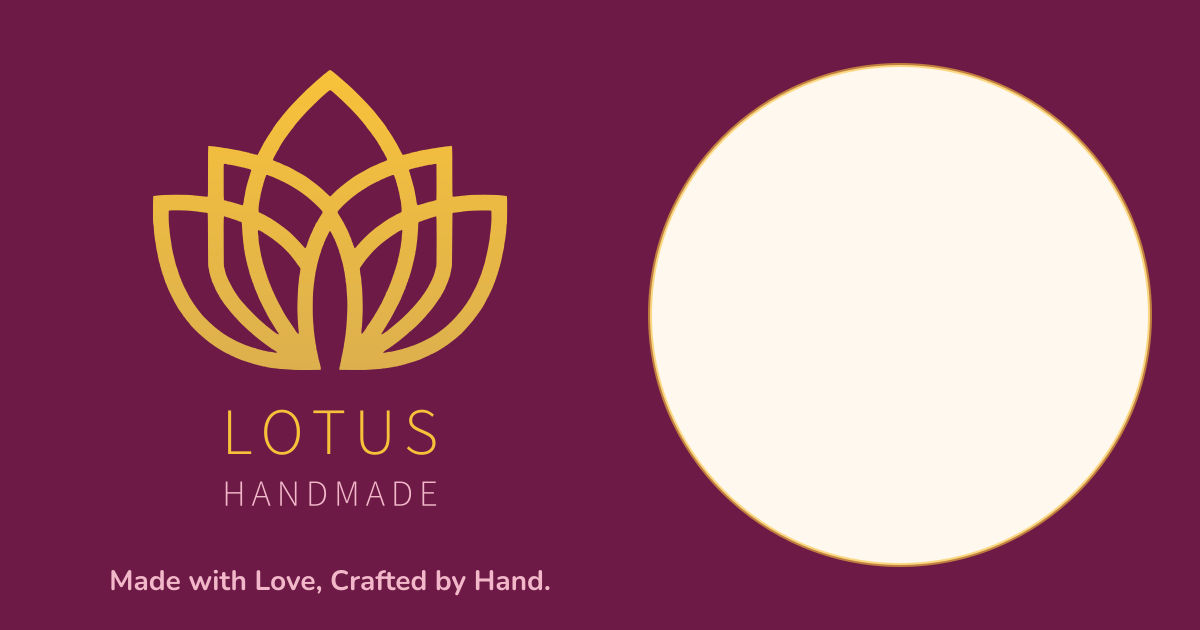
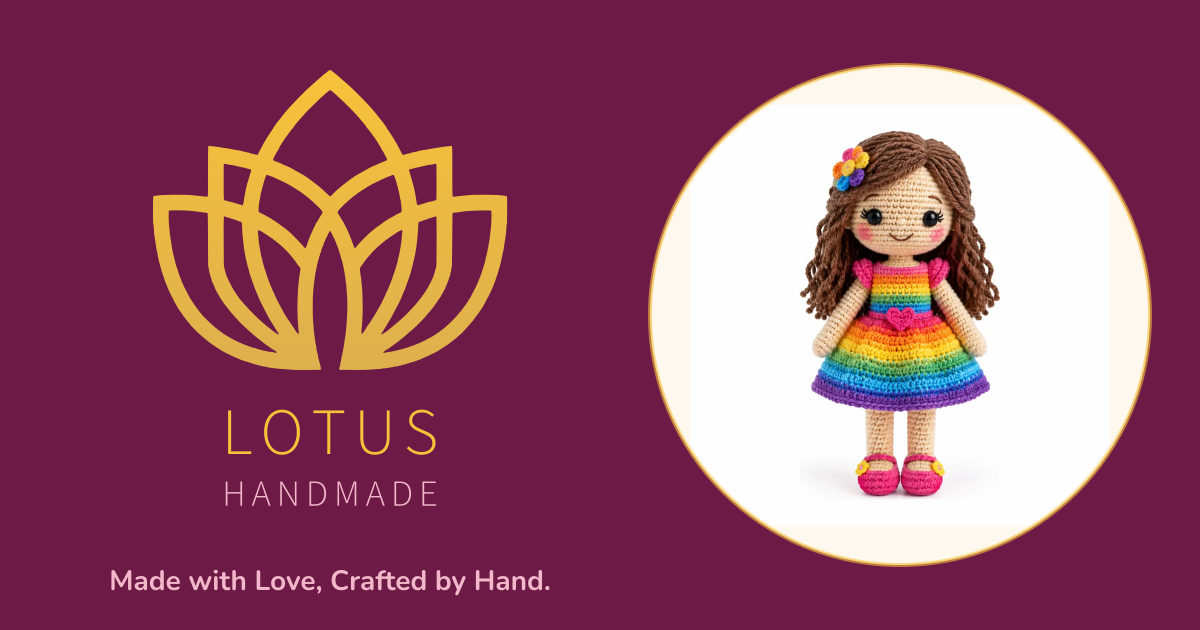
Add crochet product photos (doll, puppy, kitty, birds, baby sweater, hats, rainbow set)
Claude-Session: https://claude.ai/code/session_01KpLFza3rcbxPm6JYM8s9BS

Changed region(s): [[0.6475, 0.2111, 0.8325, 0.8143]]

diff --git a/assets/js/products.js b/assets/js/products.js
@@ -26,9 +26,9 @@
    ===================================================================== */
 
 window.CATEGORIES = [
-  { id: "wool-dolls",   name: "Wool Dolls & Teddy Bears", page: "wool-dolls-teddy-bears.html", image: "assets/images/products/wool-doll.svg",     blurb: "Huggable dolls and teddies with sweet stitched faces." },
-  { id: "crochet-toys", name: "Crochet Toys",             page: "crochet-toys.html",           image: "assets/images/products/cat.svg",           blurb: "Soft crochet birds, cats and animal friends." },
-  { id: "baby",         name: "Baby Collection",          page: "baby-collection.html",        image: "assets/images/products/baby-booties.svg",  blurb: "Booties, hats, rompers and blankets in baby pink & blue." },
+  { id: "wool-dolls",   name: "Wool Dolls & Teddy Bears", page: "wool-dolls-teddy-bears.html", image: "assets/images/products/rainbow-doll.webp",     blurb: "Huggable dolls and teddies with sweet stitched faces." },
+  { id: "crochet-toys", name: "Crochet Toys",             page: "crochet-toys.html",           image: "assets/images/products/pastel-puppy.webp",           blurb: "Soft crochet puppies, kitties, birds and animal friends." },
+  { id: "baby",         name: "Baby Collection",          page: "baby-collection.html",        image: "assets/images/products/rainbow-baby-set.webp",  blurb: "Sweaters, sets, hats, booties and blankets in baby pastels." },
   { id: "home-decor",   name: "Home & Table Décor",       page: "home-table-decor.html",       image: "assets/images/products/table-doily.svg",   blurb: "Doilies, napkin rings and coasters for a beautiful table." },
   { id: "car",          name: "Car Accessories",          page: "car-accessories.html",        image: "assets/images/products/car-charm.svg",     blurb: "Mirror charms and tissue covers to brighten your ride." },
   { id: "bags",         name: "Bags & Purses",            page: "bags-purses.html",            image: "assets/images/products/tote-bag.svg",      blurb: "Everyday crochet totes and pretty coin purses." },
@@ -38,12 +38,12 @@ window.CATEGORIES = [
 window.PRODUCTS = [
   /* ---------- Wool Dolls & Teddy Bears ---------- */
   {
-    id: "LHC-001", name: "Little Lotus Wool Doll", category: "wool-dolls",
-    description: "Sample product. A sweet handmade wool doll in a maroon dress with a gold flower, long plaits and a little bow.",
-    price: 4500, image: "assets/images/products/wool-doll.svg",
-    colours: ["Maroon", "Pink", "Light Blue"], availability: "Made to Order",
-    customisation: ["Dress colour", "Hair colour", "Name tag"],
-    details: { Size: "Approx. 30 cm tall", Material: "Soft acrylic & cotton yarn", Care: "Hand wash, dry flat" },
+    id: "LHC-001", name: "Rainbow Wool Doll", category: "wool-dolls",
+    description: "Sample product. A sweet crochet doll with long brown curls, a rainbow-striped dress, a little heart and a flower hair clip.",
+    price: 4800, image: "assets/images/products/rainbow-doll.webp",
+    colours: ["Rainbow", "Pink", "Maroon & Gold"], availability: "Made to Order",
+    customisation: ["Dress colours", "Hair colour & style", "Name tag"],
+    details: { Size: "Approx. 30 cm tall", Material: "Soft cotton yarn", Care: "Hand wash, dry flat" },
     featured: true, bestSeller: true, sample: true
   },
   {
@@ -58,21 +58,21 @@ window.PRODUCTS = [
 
   /* ---------- Crochet Toys ---------- */
   {
-    id: "LHC-003", name: "Crochet Sky Bird", category: "crochet-toys",
-    description: "Sample product. A round, happy little bird with a pink wing and golden beak — light and squishy for small hands.",
-    price: 2200, image: "assets/images/products/bird.svg",
-    colours: ["Light Blue", "Pink", "Gold"], availability: "In Stock",
-    customisation: ["Body colour"],
-    details: { Size: "Approx. 14 cm", Material: "Milk-cotton yarn", Care: "Hand wash" },
+    id: "LHC-003", name: "Crochet Birds (Set of 3)", category: "crochet-toys",
+    description: "Sample product. Three chubby crochet birds with stitched wing details and golden beaks — bright, cheerful and perfect for little hands or a shelf.",
+    price: 3900, image: "assets/images/products/crochet-birds.webp",
+    colours: ["Bright Mix", "Pastel Mix", "Light Blue"], availability: "In Stock",
+    customisation: ["Choose the colours of each bird", "Buy singly or as a set"],
+    details: { Size: "Approx. 10 cm each", Material: "Cotton yarn", Care: "Hand wash" },
     featured: true, bestSeller: false, sample: true
   },
   {
-    id: "LHC-004", name: "Crochet Kitty Cat", category: "crochet-toys",
-    description: "Sample product. A sitting kitty with a maroon collar and golden bell, whiskers and a curly tail.",
-    price: 3200, image: "assets/images/products/cat.svg",
-    colours: ["Grey", "White", "Ginger"], availability: "Made to Order",
-    customisation: ["Fur colour", "Collar colour"],
-    details: { Size: "Approx. 20 cm", Material: "Cotton-blend yarn", Care: "Hand wash, dry flat" },
+    id: "LHC-004", name: "Pastel Striped Kitty", category: "crochet-toys",
+    description: "Sample product. A sitting crochet kitty in soft lilac, peach and orange stripes with a cream face, whiskers and big shiny eyes.",
+    price: 3600, image: "assets/images/products/striped-kitty.webp",
+    colours: ["Pastel Stripes", "Grey", "Ginger"], availability: "Made to Order",
+    customisation: ["Stripe colours"],
+    details: { Size: "Approx. 22 cm", Material: "Cotton-blend yarn", Care: "Hand wash, dry flat" },
     featured: true, bestSeller: true, sample: true
   },
 
@@ -84,16 +84,16 @@ window.PRODUCTS = [
     colours: ["Baby Pink", "Light Blue", "White"], availability: "In Stock",
     customisation: ["Size 0–3 / 3–6 / 6–12 months", "Bow colour"],
     details: { Size: "0–12 months", Material: "Baby-safe soft yarn", Care: "Hand wash, dry flat" },
-    featured: true, bestSeller: true, sample: true
+    featured: false, bestSeller: true, sample: true
   },
   {
-    id: "LHC-006", name: "Baby Bear-Ear Hat", category: "baby",
-    description: "Sample product. A snug knitted baby hat with little bear ears and a crochet flower.",
-    price: 1800, image: "assets/images/products/baby-hat.svg",
-    colours: ["Light Blue", "Baby Pink", "White"], availability: "In Stock",
-    customisation: ["Size 0–6 / 6–12 months", "Flower colour"],
-    details: { Size: "0–12 months", Material: "Baby-safe soft yarn", Care: "Hand wash" },
-    featured: false, bestSeller: true, sample: true
+    id: "LHC-006", name: "Baby Beanie Hats", category: "baby",
+    description: "Sample product. Cosy crochet baby beanies — choose bear ears or a fluffy pom-pom, in blue, pink or pastel stripes.",
+    price: 1800, image: "assets/images/products/baby-hats.webp",
+    colours: ["Light Blue", "Baby Pink", "Pastel Stripes"], availability: "In Stock",
+    customisation: ["Bear ears or pom-pom", "Size 0–6 / 6–12 / 12–24 months"],
+    details: { Size: "0–24 months", Material: "Baby-safe soft yarn", Care: "Hand wash" },
+    featured: true, bestSeller: true, sample: true
   },
   {
     id: "LHC-007", name: "Baby Knitted Romper", category: "baby",
@@ -102,7 +102,7 @@ window.PRODUCTS = [
     colours: ["Baby Pink", "Light Blue", "White"], availability: "Made to Order",
     customisation: ["Size 0–3 / 3–6 / 6–12 months", "Baby's name embroidered"],
     details: { Size: "0–12 months", Material: "Baby-safe cotton yarn", Care: "Hand wash, dry flat" },
-    featured: true, bestSeller: false, sample: true
+    featured: false, bestSeller: false, sample: true
   },
   {
     id: "LHC-008", name: "Pink & Blue Baby Blanket", category: "baby",
@@ -122,7 +122,7 @@ window.PRODUCTS = [
     colours: ["Cream & Gold", "White", "Maroon & Gold"], availability: "Made to Order",
     customisation: ["Size: 30 / 45 / 60 cm", "Colour combination"],
     details: { Size: "30 – 60 cm diameter", Material: "Mercerised cotton thread", Care: "Hand wash, press gently" },
-    featured: true, bestSeller: true, sample: true
+    featured: false, bestSeller: true, sample: true
   },
   {
     id: "LHC-010", name: "Flower Napkin Rings (Set of 6)", category: "home-decor",
@@ -151,7 +151,7 @@ window.PRODUCTS = [
     colours: ["Maroon & Gold", "Pink & White", "Light Blue & White"], availability: "In Stock",
     customisation: ["Flower colour", "Add initial bead"],
     details: { Size: "Approx. 22 cm drop", Material: "Cotton yarn & wooden beads", Care: "Spot clean" },
-    featured: true, bestSeller: true, sample: true
+    featured: false, bestSeller: true, sample: true
   },
   {
     id: "LHC-013", name: "Car Tissue Box Cover", category: "car",
@@ -201,5 +201,34 @@ window.PRODUCTS = [
     customisation: ["Choose your 3 colours"],
     details: { Size: "One size", Material: "Cotton yarn, soft elastic", Care: "Hand wash" },
     featured: false, bestSeller: false, sample: true
+  },
+
+  /* ---------- New additions ---------- */
+  {
+    id: "LHC-018", name: "Pastel Puppy", category: "crochet-toys",
+    description: "Sample product. A happy crochet puppy in pastel yellow with floppy pink and blue ears, a mint bandana and chunky little paws.",
+    price: 3900, image: "assets/images/products/pastel-puppy.webp",
+    colours: ["Pastel Mix", "Cream & Brown", "Light Blue"], availability: "Made to Order",
+    customisation: ["Ear & paw colours", "Name on bandana"],
+    details: { Size: "Approx. 24 cm", Material: "Milk-cotton yarn", Care: "Hand wash, dry flat" },
+    featured: true, bestSeller: true, sample: true
+  },
+  {
+    id: "LHC-019", name: "Heart Baby Sweater", category: "baby",
+    description: "Sample product. A soft knitted baby sweater in pink, light blue, yellow and white stripes with rows of little hearts and shoulder buttons.",
+    price: 4500, image: "assets/images/products/heart-baby-sweater.webp",
+    colours: ["Pastel Stripes", "Pink & White", "Blue & White"], availability: "Made to Order",
+    customisation: ["Size 0–6 / 6–12 / 12–24 months", "Heart colour"],
+    details: { Size: "0–24 months", Material: "Baby-safe soft yarn", Care: "Hand wash, dry flat" },
+    featured: true, bestSeller: false, sample: true
+  },
+  {
+    id: "LHC-020", name: "Rainbow Baby Set (Hat, Cardigan & Booties)", category: "baby",
+    description: "Sample product. A matching rainbow set — pom-pom hat, button-up cardigan and tie-up booties. A beautiful newborn or first-birthday gift.",
+    price: 9500, image: "assets/images/products/rainbow-baby-set.webp",
+    colours: ["Rainbow Pastel", "Baby Pink", "Light Blue"], availability: "Made to Order",
+    customisation: ["Size 0–3 / 3–6 / 6–12 months", "Gift wrapping"],
+    details: { Size: "0–12 months", Material: "Baby-safe soft yarn", Care: "Hand wash, dry flat" },
+    featured: true, bestSeller: true, sample: true
   }
 ];

diff --git a/index.html b/index.html
@@ -90,9 +90,9 @@
 </ul>
 </div>
 <div class="hero-art" aria-hidden="true">
-<div class="hero-tile"><img src="assets/images/products/wool-doll.svg" alt="" width="400" height="400"></div>
-<div class="hero-tile"><img src="assets/images/products/baby-booties.svg" alt="" width="300" height="300"></div>
-<div class="hero-tile"><img src="assets/images/products/bird.svg" alt="" width="300" height="300"></div>
+<div class="hero-tile"><img src="assets/images/products/rainbow-doll.webp" alt="" width="400" height="400"></div>
+<div class="hero-tile"><img src="assets/images/products/pastel-puppy.webp" alt="" width="300" height="300"></div>
+<div class="hero-tile"><img src="assets/images/products/rainbow-baby-set.webp" alt="" width="300" height="300"></div>
 <div class="hero-badge"><span><svg class="icon " aria-hidden="true" focusable="false"><use href="#i-heart"></use></svg></span>Every stitch by hand</div>
 </div>
 </div>
@@ -143,8 +143,8 @@
 <a class="btn btn--primary" href="custom-orders.html"><svg class="icon " aria-hidden="true" focusable="false"><use href="#i-sparkles"></use></svg> Start a custom order</a>
 </div>
 <div class="band-art" aria-hidden="true">
-<img src="assets/images/products/cat.svg" alt="" width="260" height="260" loading="lazy">
-<img src="assets/images/products/table-doily.svg" alt="" width="260" height="260" loading="lazy">
+<img src="assets/images/products/striped-kitty.webp" alt="" width="260" height="260" loading="lazy">
+<img src="assets/images/products/heart-baby-sweater.webp" alt="" width="260" height="260" loading="lazy">
 </div>
 </div>
 </div>

diff --git a/assets/js/main.js b/assets/js/main.js
@@ -41,7 +41,12 @@
     mint: "#D7EBDD", "sage green": "#BFD8C3", cream: "#FBF3E4", white: "#FFFFFF", brown: "#A47C68",
     "caramel brown": "#C9926A", ginger: "#E8A25E", "natural beige": "#EAD7BD", grey: "#C9C3CF",
     mixed: "linear-gradient(135deg,#7A2050 0 33%,#F2BE3A 33% 66%,#FBF3E4 66%)",
-    "pastel mix": "linear-gradient(135deg,#F6C1D1 0 33%,#BFDDF2 33% 66%,#FFFFFF 66%)"
+    "pastel mix": "linear-gradient(135deg,#F6C1D1 0 33%,#BFDDF2 33% 66%,#FFFFFF 66%)",
+    rainbow: "linear-gradient(135deg,#E8457A,#F59A3C,#F5D33C,#5DBB63,#3C9BE8,#8A5CD6)",
+    "rainbow pastel": "linear-gradient(135deg,#F6B3C6,#F9D3A5,#F7EBA0,#B9E3BE,#B4D7F2,#CDB9EC)",
+    "bright mix": "linear-gradient(135deg,#D93A3A 0 33%,#F5CF3C 33% 66%,#2BB3C4 66%)",
+    "pastel stripes": "linear-gradient(135deg,#F6C1D1 0 25%,#F7EBA0 25% 50%,#BFDDF2 50% 75%,#D9C9EE 75%)",
+    "cream & brown": "linear-gradient(135deg,#FBF3E4 0 50%,#A47C68 50%)"
   };
   function swatchStyle(name) {
     var key = String(name).toLowerCase();

diff --git a/about.html b/about.html
@@ -89,7 +89,7 @@
 <p><a class="btn btn--primary" href="shop.html"><svg class="icon " aria-hidden="true" focusable="false"><use href="#i-shopping-bag"></use></svg> Explore our creations</a></p>
 </div>
 <div class="hero-art" aria-hidden="true">
-<div class="hero-tile"><img src="assets/images/products/teddy-bear.svg" alt="" width="400" height="400" loading="lazy"></div>
+<div class="hero-tile"><img src="assets/images/products/crochet-birds.webp" alt="" width="400" height="400" loading="lazy"></div>
 <div class="hero-tile"><img src="assets/images/products/napkin-rings.svg" alt="" width="300" height="300" loading="lazy"></div>
 <div class="hero-tile"><img src="assets/images/products/car-charm.svg" alt="" width="300" height="300" loading="lazy"></div>
 </div>
